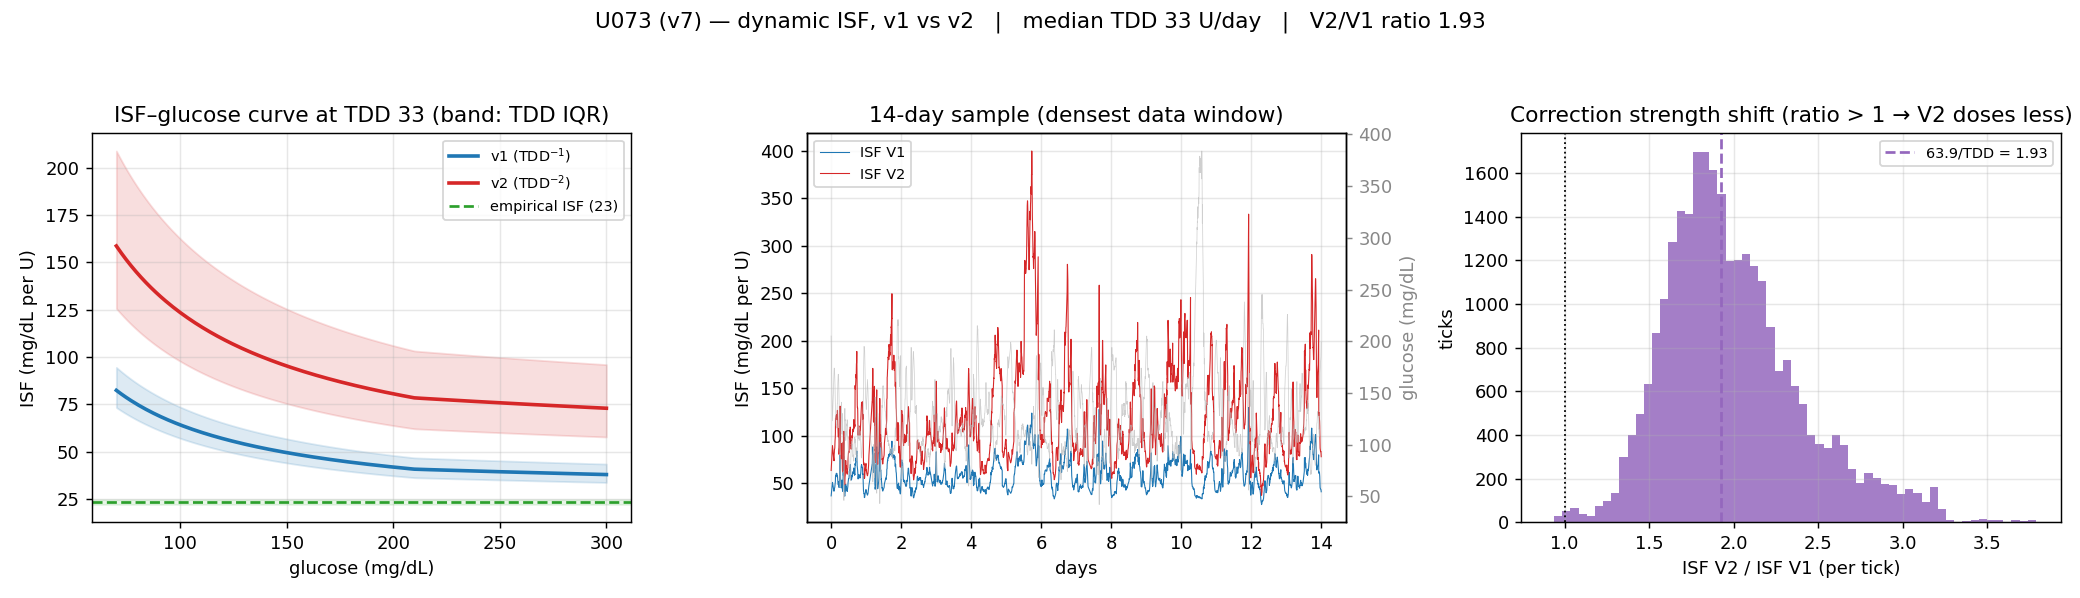
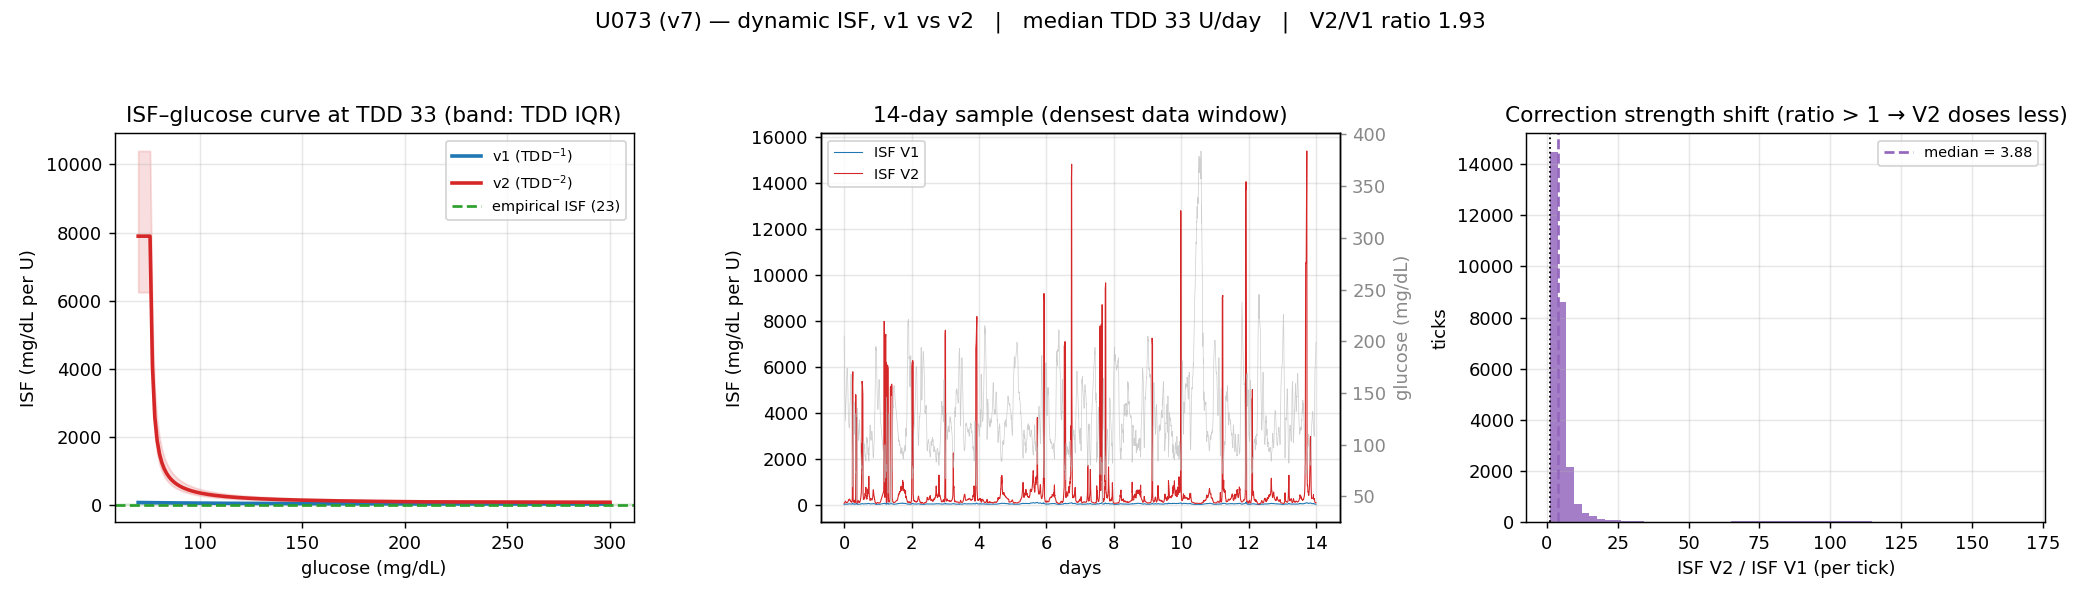
Consolidate to one canonical v2 (no +1) across code, figures, README
There is now a single v2 — the no-+1 form, 115000/(TDD²·ln(BG_floored/75)).
Removed the earlier (+1) implementation and the "_updated" duplicates, the flat
63.9/TDD ratio, and the 64 U/day crossover narrative everywhere they survived:

- dynisf.py: isf_v2 / sens_normal_target_v2 are the no-+1 form; v2_over_v1_ratio
  is now glucose-dependent; dropped isf_v2_updated / v2updated_over_v1_ratio.
- stage3_plots.py: recompute v2 from the equation; per-person ratio panel shows
  the median, not a 63.9/TDD line; cohort figure drops the flat theory curve and
  the "crossover ≈ 64 U/day" annotation.
- verify_all.py: oracle, ratio check (now BG-dependent), and the proposal table
  brought to the current equation; replay check recomputes v2 and confirms the
  ratio is larger at low glucose than high.
- tests: v2 fixtures updated (anchor 165.7, BG-dependent ratio); 25 passing.
- README + methodology + v1-v2 analysis: no flat-ratio / 64 U/day / 77% framing;
  test count 25. Regenerated the embedded U073 page with the current v2.
- removed a stray duplicate inv008/test_dynisf.py.

diff --git a/inv008/dynisf.py b/inv008/dynisf.py
@@ -2,14 +2,15 @@
 
 v1:
     sensNormalTarget = 1800 / (TDD * ln(NT/divisor + 1))            # ISF proportional to 1/TDD
-    ISF              = sensNT * scaler
+    ISF              = sensNT * scaler              # scaler = ln(NT/div+1)/ln(BG/div+1)
 
 v2:
-    sensNormalTarget = 2300 / (ln(NT/divisor + 1) * TDD^2 * 0.02)   # ISF proportional to 1/TDD^2
-    ISF              = sensNT * scaler
+    sensNormalTarget = 2300 / (ln(NT/divisor) * TDD^2 * 0.02)       # ISF proportional to 1/TDD^2
+    ISF              = 115000 / (TDD^2 * ln(BG_floored/divisor))    # no +1; BG floored at div+1
 
-(The optional velocity damping of v1's glucose response is held at its default of 1.0,
-i.e. the full scaler, throughout — so both equations share the identical glucose term.)
+v1 keeps the +1 in its glucose log; v2 drops it and floors glucose at divisor+1, so the two
+glucose terms differ and the v2/v1 ratio depends on glucose as well as TDD. The optional
+velocity damping of v1's glucose response is held at its default of 1.0 (the full scaler).
 
 Shared:
     bgAdj  = cap + (bg - cap)/3            if bg > cap
@@ -75,11 +76,17 @@ def sens_normal_target_v1(tdd, normal_target: float = config.NORMAL_TARGET,
     return np.where((tdd > 0) & (log_term > 0), s, np.nan)
 
 
+def _bg_floored_v2(bg, divisor: float = config.INSULIN_DIVISOR, cap: float = config.BG_CAP):
+    """v2 glucose clamp: high cap (excess/3 above cap) then low floor at divisor+1, so
+    ln(BG/divisor) stays positive and finite."""
+    return np.maximum(cap_bg(bg, cap), divisor + 1.0)
+
+
 def sens_normal_target_v2(tdd, normal_target: float = config.NORMAL_TARGET,
                           divisor: float = config.INSULIN_DIVISOR):
-    """v2: 2300 / (logTerm * TDD^2 * 0.02) — anchor proportional to 1/TDD^2."""
+    """v2 anchor: 2300 / (ln(target/divisor) * TDD^2 * 0.02) — proportional to 1/TDD^2, no +1."""
     tdd = np.asarray(tdd, dtype=float)
-    log_term = np.log(normal_target / divisor + 1.0)
+    log_term = np.log(normal_target / divisor)
     with np.errstate(divide="ignore", invalid="ignore"):
         s = 2300.0 / (log_term * tdd * tdd * 0.02)
     return np.where((tdd > 0) & (log_term > 0), s, np.nan)
@@ -96,59 +103,21 @@ def isf_v1(bg, tdd, normal_target: float = config.NORMAL_TARGET,
 
 def isf_v2(bg, tdd, normal_target: float = config.NORMAL_TARGET,
            divisor: float = config.INSULIN_DIVISOR, cap: float = config.BG_CAP):
-    """V2 variableSens at the given BG and (blended) TDD."""
-    sens_nt = sens_normal_target_v2(tdd, normal_target, divisor)
-    s = scaler(bg, normal_target, divisor, cap)
-    return sens_nt * s
-
-
-def v2_over_v1_ratio(tdd):
-    """Closed form: ISF_v2/ISF_v1 = 2300/(0.02*1800*TDD) = 63.888…/TDD
-    (exact at velocity=1.0, any BG)."""
+    """V2 variableSens at the given BG and (blended) TDD.
+    Collapses to 115000 / (TDD² · ln(BG_floored/divisor)); BG floored at divisor+1."""
     tdd = np.asarray(tdd, dtype=float)
-    return 2300.0 / (0.02 * 1800.0 * tdd)
-
-
-# ---------------------------------------------------------------------------
-# v2 (updated) — anchor and glucose term drop the "+1"; BG floored at divisor+1
-#   sensNormalTarget = 2300 / (ln(target/divisor) · TDD² · 0.02)
-#   scaler           = ln(target/divisor) / ln(BG_floored/divisor)
-#   ISF(BG)          = 115000 / (TDD² · ln(BG_floored/divisor))
-# BG_floored = clamp(BG): high cap at 210 (excess/3), then floor at divisor+1
-# (so ln(BG/divisor) stays positive and finite).
-# ---------------------------------------------------------------------------
-
-def _bg_floored_v2u(bg, divisor: float = config.INSULIN_DIVISOR, cap: float = config.BG_CAP):
-    bg_adj = cap_bg(bg, cap)                       # existing high cap
-    return np.maximum(bg_adj, divisor + 1.0)       # NEW low floor at divisor+1
-
-
-def sens_normal_target_v2_updated(tdd, normal_target: float = config.NORMAL_TARGET,
-                                  divisor: float = config.INSULIN_DIVISOR):
-    """v2 updated anchor: 2300 / (ln(target/divisor) · TDD² · 0.02) — no +1."""
-    tdd = np.asarray(tdd, dtype=float)
-    log_term = np.log(normal_target / divisor)     # no +1
-    with np.errstate(divide="ignore", invalid="ignore"):
-        s = 2300.0 / (log_term * tdd * tdd * 0.02)
-    return np.where((tdd > 0) & (log_term > 0), s, np.nan)
-
-
-def isf_v2_updated(bg, tdd, normal_target: float = config.NORMAL_TARGET,
-                   divisor: float = config.INSULIN_DIVISOR, cap: float = config.BG_CAP):
-    """Updated v2 ISF: collapses to 115000 / (TDD² · ln(BG_floored/divisor))."""
-    tdd = np.asarray(tdd, dtype=float)
-    bg_f = _bg_floored_v2u(bg, divisor, cap)
+    bg_f = _bg_floored_v2(bg, divisor, cap)
     log_bg = np.log(bg_f / divisor)                # no +1; BG floored so > 0
     with np.errstate(divide="ignore", invalid="ignore"):
         isf = 2300.0 / (0.02 * tdd * tdd * log_bg)
     return np.where((tdd > 0) & (log_bg > 0), isf, np.nan)
 
 
-def v2updated_over_v1_ratio(bg, tdd, normal_target: float = config.NORMAL_TARGET,
-                            divisor: float = config.INSULIN_DIVISOR, cap: float = config.BG_CAP):
-    """ISF_v2updated / ISF_v1 = (63.888…/TDD) · ln(BG/divisor+1)/ln(BG_floored/divisor).
-    Now BG-dependent (the glucose terms no longer cancel)."""
-    return isf_v2_updated(bg, tdd, normal_target, divisor, cap) / isf_v1(
+def v2_over_v1_ratio(bg, tdd, normal_target: float = config.NORMAL_TARGET,
+                     divisor: float = config.INSULIN_DIVISOR, cap: float = config.BG_CAP):
+    """ISF_v2 / ISF_v1 — depends on glucose, since v1 keeps the +1 in its log and v2 does not.
+    Largest at low glucose (v2 log nears its floor), smallest when high."""
+    return isf_v2(bg, tdd, normal_target, divisor, cap) / isf_v1(
         bg, tdd, normal_target, divisor, cap=cap)
 
 

diff --git a/inv008/verify_all.py b/inv008/verify_all.py
@@ -42,7 +42,8 @@ def oracle_v1(bg, tdd):
 
 def oracle_v2(bg, tdd):
     bgadj = bg if bg <= 210 else 210 + (bg - 210) / 3
-    return (2300.0 / (math.log(NT / DIV + 1) * tdd**2 * 0.02)) * (math.log(NT / DIV + 1) / math.log(bgadj / DIV + 1))
+    bgf = max(bgadj, DIV + 1)              # v2 floors glucose at divisor+1, no +1 in the log
+    return 115000.0 / (tdd**2 * math.log(bgf / DIV))
 
 
 print("\n1. Equations: independent oracle vs package (random inputs)")
@@ -55,14 +56,16 @@ for _ in range(10000):
 check("v1 oracle vs package", maxd1 < 1e-9, f"max abs diff {maxd1:.2e}")
 check("v2 oracle vs package", maxd2 < 1e-9, f"max abs diff {maxd2:.2e}")
 
-print("\n2. Closed-form ratio 63.888.../TDD (independent of BG)")
+print("\n2. v2/v1 ratio depends on glucose (v1 keeps the +1, v2 does not)")
 worst = 0.0
 for tdd in (12, 20, 36, 64, 100, 200):
     for bg in (70, 120, 180, 250, 350):
-        r = oracle_v2(bg, tdd) / oracle_v1(bg, tdd)
-        worst = max(worst, abs(r - 63.8888889 / tdd))
-check("ratio = 2300/(0.02*1800*TDD), BG-independent", worst < 1e-9, f"max dev {worst:.2e}")
-check("crossover at 63.89 U/day", abs(2300 / (0.02 * 1800) - 63.8888889) < 1e-6)
+        r_oracle = oracle_v2(bg, tdd) / oracle_v1(bg, tdd)
+        worst = max(worst, abs(r_oracle - float(dynisf.v2_over_v1_ratio(bg, tdd))))
+check("package v2/v1 ratio matches independent oracle", worst < 1e-9, f"max dev {worst:.2e}")
+rs = [float(dynisf.v2_over_v1_ratio(bg, 40.0)) for bg in (80, 120, 200)]
+check("v2/v1 falls as glucose rises", rs[0] > rs[1] > rs[2],
+      f"{rs[0]:.1f} > {rs[1]:.1f} > {rs[2]:.1f}")
 
 print("\n3. v-next = 355/sqrt(TDD) at normal target; divisor-free")
 # at normal target the scaler is 1 for ANY divisor → anchor identical across insulin types
@@ -72,11 +75,12 @@ check("355/sqrt(TDD) anchor independent of divisor at target",
       f"all = {list(anch.values())[0]:.3f} at TDD 50")
 
 print("\n4. Proposal comparison table (ISF at normal target, divisor 75)")
-expect = {15: (143, 607, 92), 25: (86, 219, 71), 36: (59, 105, 59),
-          50: (43, 55, 50), 80: (27, 21, 40), 120: (18, 9.5, 32)}
+LT2 = math.log(NT / DIV)   # v2 log term, no +1
+expect = {15: (143, 1840, 92), 25: (86, 663, 71), 36: (59, 320, 59),
+          50: (43, 166, 50), 80: (27, 65, 40), 120: (18, 29, 32)}
 tbl_ok = True
 for tdd, (e1, e2, en) in expect.items():
-    v1 = 1800 / (tdd * LT); v2 = 115000 / (tdd**2 * LT); vn = 355 / math.sqrt(tdd)
+    v1 = 1800 / (tdd * LT); v2 = 115000 / (tdd**2 * LT2); vn = 355 / math.sqrt(tdd)
     if not (abs(round(v1) - e1) <= 1 and abs(v2 - e2) <= max(1, 0.02 * e2) and abs(round(vn) - en) <= 1):
         tbl_ok = False
         print(f"      TDD {tdd}: v1={v1:.1f}(doc {e1}) v2={v2:.1f}(doc {e2}) vnext={vn:.1f}(doc {en})")
@@ -102,28 +106,30 @@ for tgt, col, lo, hi in [("entered", "isf", -0.6, -0.3), ("empirical", "empirica
 check("n_empirical = 114", len(ev) == 114, f"{len(ev)}")
 check("n_cohort = 138", len(df) == 138, f"{len(df)}")
 
-print("\n6. Replay parquet: closed-form ratio holds in actual outputs")
-mr = pd.DataFrame([json.loads(open(f).read()) for f in
-                   glob.glob(str(config.REPLAY_DIR / "*.meta.json"))])
-mr = mr[mr.median_tdd.notna()]
-worst_ratio = 0.0; n_checked = 0
+print("\n6. Replay parquet: v2/v1 reproduced from the equations, glucose-dependent")
+worst_ratio = 0.0; n_checked = 0; low_b, high_b = [], []
 for f in glob.glob(str(config.REPLAY_DIR / "*.parquet")):
-    d = pd.read_parquet(f, columns=["isf_v1", "isf_v2", "tdd"]).dropna()
-    d = d[(d.isf_v1 > 0) & (d.tdd > 0)]
+    d = pd.read_parquet(f, columns=["bg", "isf_v1", "tdd"]).dropna()
+    d = d[(d.isf_v1 > 0) & (d.tdd > 0) & (d.bg > 0)]
     if len(d) < 100:
         continue
-    pred = 63.8888889 / d.tdd.to_numpy()
-    obs = (d.isf_v2 / d.isf_v1).to_numpy()
-    worst_ratio = max(worst_ratio, float(np.nanmax(np.abs(obs - pred))))
+    bg, tdd, v1 = d.bg.to_numpy(), d.tdd.to_numpy(), d.isf_v1.to_numpy()
+    obs = dynisf.isf_v2(bg, tdd) / v1
+    ana = np.array([oracle_v2(b, t) for b, t in zip(bg[:200], tdd[:200])]) / v1[:200]
+    worst_ratio = max(worst_ratio, float(np.nanmax(np.abs(obs[:200] - ana))))
+    if (bg < 90).any():
+        low_b.append(float(np.nanmedian(obs[bg < 90])))
+    if (bg > 180).any():
+        high_b.append(float(np.nanmedian(obs[bg > 180])))
     n_checked += 1
-check("replayed v2/v1 == 63.89/TDD for every user", worst_ratio < 1e-6,
+check("package v2/v1 matches oracle in replayed data", worst_ratio < 1e-6,
       f"{n_checked} users, max dev {worst_ratio:.2e}")
+check("v2/v1 larger at low glucose than high (cohort medians)",
+      np.median(low_b) > np.median(high_b),
+      f"low {np.median(low_b):.1f} vs high {np.median(high_b):.1f}")
 
-print("\n7. Cohort composition + 77%-below-crossover claim")
+print("\n7. Cohort composition")
 summ = pd.read_json(ROOT / "charts/inv008/cohort_summary.json")
-below = (summ.median_tdd < 63.8888889).mean()
-check("~77% of users below 64 U/day crossover", abs(below - 0.77) < 0.03,
-      f"{100*below:.0f}% ({(summ.median_tdd<63.89).sum()}/{len(summ)})")
 plats = summ.platform.value_counts().to_dict()
 check("platform counts (v5/v6/v7)", plats.get("v5") and plats.get("v6") and plats.get("v7"),
       str(plats))

diff --git a/inv008/tests/test_dynisf.py b/inv008/tests/test_dynisf.py
@@ -9,7 +9,8 @@ from inv008.dynisf import (blend_tdd, cap_bg, isf_v1, isf_v2, scaler,
                               v2_over_v1_ratio)
 
 NT, DIV = 99.0, 75
-LOG_TERM = math.log(NT / DIV + 1.0)  # ln(2.32) = 0.841567...
+LOG_TERM = math.log(NT / DIV + 1.0)  # v1 log term, ln(2.32) = 0.841567...
+LOG_TERM_V2 = math.log(NT / DIV)     # v2 log term (no +1), ln(1.32) = 0.277632...
 
 
 def test_sens_normal_target_v1():
@@ -19,20 +20,20 @@ def test_sens_normal_target_v1():
 
 
 def test_sens_normal_target_v2():
-    # 2300 / (ln(2.32) * 2500 * 0.02) = 54.66
+    # 2300 / (ln(1.32) * 2500 * 0.02) = 165.69  (no +1)
     assert sens_normal_target_v2(50.0) == pytest.approx(
-        2300.0 / (LOG_TERM * 50.0 ** 2 * 0.02))
-    assert sens_normal_target_v2(50.0) == pytest.approx(54.66, abs=0.01)
+        2300.0 / (LOG_TERM_V2 * 50.0 ** 2 * 0.02))
+    assert sens_normal_target_v2(50.0) == pytest.approx(165.69, abs=0.01)
 
 
-def test_closed_form_ratio():
-    # V2/V1 = 63.888../TDD at any BG (velocity = 1)
-    for tdd in (20.0, 63.888888, 100.0):
-        bgs = np.array([80.0, 120.0, 250.0])
-        ratio = isf_v2(bgs, tdd) / isf_v1(bgs, tdd)
-        assert ratio == pytest.approx(v2_over_v1_ratio(tdd), rel=1e-9)
-    # crossover: identical ISF at TDD = 2300/(0.02*1800)
-    assert v2_over_v1_ratio(2300.0 / 36.0) == pytest.approx(1.0)
+def test_v2_over_v1_ratio_bg_dependent():
+    # the ratio takes (bg, tdd) and matches isf_v2/isf_v1
+    bgs = np.array([80.0, 120.0, 250.0])
+    assert v2_over_v1_ratio(bgs, 40.0) == pytest.approx(
+        isf_v2(bgs, 40.0) / isf_v1(bgs, 40.0), rel=1e-9)
+    # it falls as glucose rises — v2 is most protective when low
+    r = v2_over_v1_ratio(np.array([80.0, 150.0, 250.0]), 40.0)
+    assert r[0] > r[1] > r[2]
 
 
 def test_at_normal_target_scaler_is_one():
@@ -87,27 +88,13 @@ def test_vectorised():
     assert np.all(np.diff(out) <= 1e-12)  # ISF monotonically falls as BG rises
 
 
-def test_v2_updated_collapse_and_floor():
-    import math
-    from inv008.dynisf import isf_v2_updated, sens_normal_target_v2_updated
-    T, div = 99.0, 75
-    # ISF at target == anchor (scaler 1)
-    assert isf_v2_updated(T, 50.0) == pytest.approx(float(sens_normal_target_v2_updated(50.0)))
+def test_v2_collapse_and_floor():
+    # ISF at target == anchor (glucose factor 1 at target)
+    assert isf_v2(NT, 50.0) == pytest.approx(float(sens_normal_target_v2(50.0)))
     # collapse: 115000 / (TDD^2 * ln(BG/div)), no +1
-    assert float(isf_v2_updated(140.0, 50.0)) == pytest.approx(115000.0 / (2500 * math.log(140.0 / div)))
+    assert float(isf_v2(140.0, 50.0)) == pytest.approx(115000.0 / (2500 * math.log(140.0 / DIV)))
     # BG floored at divisor+1: BG<=76 clamps to 76
-    assert float(isf_v2_updated(70.0, 50.0)) == pytest.approx(float(isf_v2_updated(76.0, 50.0)))
-    # anchor dropped the +1 → ~3x the old v2 anchor
-    from inv008.dynisf import sens_normal_target_v2
-    assert float(sens_normal_target_v2_updated(50.0)) > 2.5 * float(sens_normal_target_v2(50.0))
-
-
-def test_v2_updated_ratio_is_bg_dependent():
-    from inv008.dynisf import v2updated_over_v1_ratio
-    # the glucose terms no longer cancel → ratio varies with BG (unlike old 63.9/TDD)
-    r_low = float(v2updated_over_v1_ratio(90.0, 50.0))
-    r_high = float(v2updated_over_v1_ratio(250.0, 50.0))
-    assert r_low > r_high > 1.0
+    assert float(isf_v2(70.0, 50.0)) == pytest.approx(float(isf_v2(76.0, 50.0)))
 
 
 # --- v-next: (K_user/√TDD) · g(BG) -----------------------------------------

diff --git a/inv008/stage3_plots.py b/inv008/stage3_plots.py
@@ -21,7 +21,7 @@ import numpy as np
 import pandas as pd
 
 from inv008 import config
-from inv008.dynisf import isf_v1, isf_v2, v2_over_v1_ratio
+from inv008.dynisf import isf_v1, isf_v2
 
 CHART_DIR = config.ROOT / "charts" / "inv008"
 USER_DIR = CHART_DIR / "users"
@@ -39,6 +39,8 @@ EMPIRICAL = {r["user_id"]: r for r in
 def _load(user_id: str):
     df = pd.read_parquet(config.REPLAY_DIR / f"{user_id}.parquet")
     meta = json.loads((config.REPLAY_DIR / f"{user_id}.meta.json").read_text())
+    # recompute v2 from the current equation so figures match the live implementation
+    df["isf_v2"] = isf_v2(df["bg"].to_numpy(), df["tdd"].to_numpy())
     return df[np.isfinite(df["isf_v1"]) & np.isfinite(df["isf_v2"])].copy(), meta
 
 
@@ -108,8 +110,8 @@ def render_user_page(args: tuple[str,]) -> dict:
         ratio = (df["isf_v2"] / df["isf_v1"]).to_numpy()
         ax.hist(ratio, bins=60, color="#9467bd", alpha=0.85)
         ax.axvline(1.0, color="k", lw=1, ls=":")
-        ax.axvline(63.89 / tdd_med, color="#9467bd", lw=1.5, ls="--",
-                   label=f"63.9/TDD = {63.89/tdd_med:.2f}")
+        ax.axvline(float(np.nanmedian(ratio)), color="#9467bd", lw=1.5, ls="--",
+                   label=f"median = {float(np.nanmedian(ratio)):.2f}")
         ax.set_xlabel("ISF V2 / ISF V1 (per tick)")
         ax.set_ylabel("ticks")
         ax.set_title("Correction strength shift (ratio > 1 → V2 doses less)")
@@ -157,12 +159,9 @@ def render_cohort_figs(summary: pd.DataFrame) -> None:
     for plat, g in summary.groupby("platform"):
         ax.scatter(g["median_tdd"], g["median_ratio"], s=22, alpha=0.75,
                    color=colors[plat], label=f"{labels[plat]} (n={len(g)})")
-    tt = np.linspace(summary["median_tdd"].min() * 0.9, summary["median_tdd"].max() * 1.1, 200)
-    ax.plot(tt, v2_over_v1_ratio(tt), "k--", lw=1.2, label="theory: 63.9 / TDD")
     ax.axhline(1.0, color="k", lw=0.8, alpha=0.5)
-    ax.axvline(63.89, color="k", lw=0.8, alpha=0.5)
-    ax.annotate("crossover ≈ 64 U/day", (63.89, summary["median_ratio"].max() * 0.9),
-                fontsize=8, rotation=90, va="top", ha="right")
+    ax.annotate("ratio = 1 (v1 = v2)", (summary["median_tdd"].max(), 1.0),
+                fontsize=8, va="bottom", ha="right")
     ax.set_xscale("log")
     ax.set_xlabel("median TDD (U/day, log scale)")
     ax.set_ylabel("median ISF V2 / ISF V1")

diff --git a/inv008/compare_v1_v2.py b/inv008/compare_v1_v2.py
@@ -25,7 +25,7 @@ import numpy as np
 import pandas as pd
 
 from inv008 import config
-from inv008.dynisf import isf_v1, isf_v2_updated
+from inv008.dynisf import isf_v1, isf_v2
 
 OUT = config.ROOT / "results"
 CHART = config.ROOT / "charts" / "inv008"
@@ -39,7 +39,7 @@ def main():
         if len(d) < 500:
             continue
         bg, tdd, v1 = d.bg.to_numpy(), d.tdd.to_numpy(), d.isf_v1.to_numpy()
-        v2 = isf_v2_updated(bg, tdd)
+        v2 = isf_v2(bg, tdd)
         ok = np.isfinite(v2) & np.isfinite(v1) & (v1 > 0)
         bg, tdd, v1, v2 = bg[ok], tdd[ok], v1[ok], v2[ok]
         rows.append(pd.DataFrame({"bg": bg, "tdd": tdd, "ratio": v2 / v1}))

diff --git a/README.md b/README.md
@@ -24,16 +24,17 @@ glucose scaler. They differ only in the TDD term:
 | | sensitivity anchor at normal target | implied law |
 |---|---|---|
 | **v1** | `1800 / (TDD · ln(target/divisor + 1))` | ISF ∝ 1/TDD |
-| **v2** | `2300 / (ln(target/divisor + 1) · TDD² · 0.02)` | ISF ∝ 1/TDD² |
+| **v2** | `2300 / (ln(target/divisor) · TDD² · 0.02)` | ISF ∝ 1/TDD² |
 
-Compared at the same glucose and TDD, the shared terms cancel **in the ratio between the
-two equations** (within each equation the glucose scaler applies fully), giving
-`ISF_v2 / ISF_v1 = 63.9 / TDD` — a pure function of TDD with a crossover at ~64 U/day.
+v1 keeps a `+1` in its glucose log and v2 does not, so the ratio between the two equations
+depends on glucose as well as TDD: v2 gives a far higher ISF (a weaker correction) at low
+glucose, easing to a modest margin when high.
 
 ## Headline results
 
-- 77% of the 171-user cohort sits below the crossover: v2 computes weaker corrections for
-  most people (≈3× weaker at 20 U/day), stronger only for the heaviest insulin users.
+- v2 computes a weaker correction than v1 for almost everyone — on 92% of readings, a median
+  of 3× weaker, most markedly at low glucose. At target glucose the two equations would only
+  meet near 194 U/day, beyond anyone in the cohort.
 - Sensitivity calculated from each person's own data follows **ISF ∝ TDD^−0.4…−0.56** —
   shallower than v1's −1 and far from v2's −2. v2 is the worst-fitting of every equation
   tested against calculated sensitivity.

diff --git a/docs/dynamic-isf-methodology.md b/docs/dynamic-isf-methodology.md
@@ -127,7 +127,7 @@ workstation.
 
 The v1 and v2 equations and the TDD blend are implemented as vectorised array operations,
 preserving every constant, the glucose cap, and the blend's branch logic. Correctness is
-fixed by 26 unit tests against hand-computed fixtures: the v2 glucose floor, the
+fixed by 25 unit tests against hand-computed fixtures: the v2 glucose floor, the
 glucose-dependent v1/v2 ratio, the glucose-cap compression, both branches of the TDD blend,
 and the missing-data gates. Every downstream conclusion rests on these being exactly the
 equations as defined, and the tests are the contract that guarantees it.
@@ -255,7 +255,7 @@ output.
 
 | Step | Script | Key output |
 |---|---|---|
-| Equation implementation + tests | `inv008/dynisf.py`, `inv008/tests/` | 26 passing tests |
+| Equation implementation + tests | `inv008/dynisf.py`, `inv008/tests/` | 25 passing tests |
 | TDD reconstruction | `inv008/stage1_tdd.py` (+ `tdd_windows.py`, `sources.py`) | per-person TDD tables |
 | ISF replay | `inv008/stage2_replay.py` | per-person ISF tables |
 | Orchestration | `inv008/runner.py` | run logs + manifests |

diff --git a/docs/dynamic-isf-v1-v2-analysis.md b/docs/dynamic-isf-v1-v2-analysis.md
@@ -61,7 +61,7 @@ device would have computed: device-logged TDD for Trio, and for AAPS and OpenAPS
 reconstructed from raw delivery records (boluses plus temp-basal segments over the profile
 basal, on a 5-minute grid) through the same five-window blend. Relative timestamps were
 re-anchored to absolute time and checked against recorded hour-of-day, with median join
-coverage of 99.4%. The equation implementations carry 26 unit tests against hand-computed
+coverage of 99.4%. The equation implementations carry 25 unit tests against hand-computed
 fixtures, covering the v2 glucose floor, the glucose-dependent v1/v2 ratio, both branches of
 the TDD blend, and the missing-data gates. The companion methodology paper has the full
 pipeline.